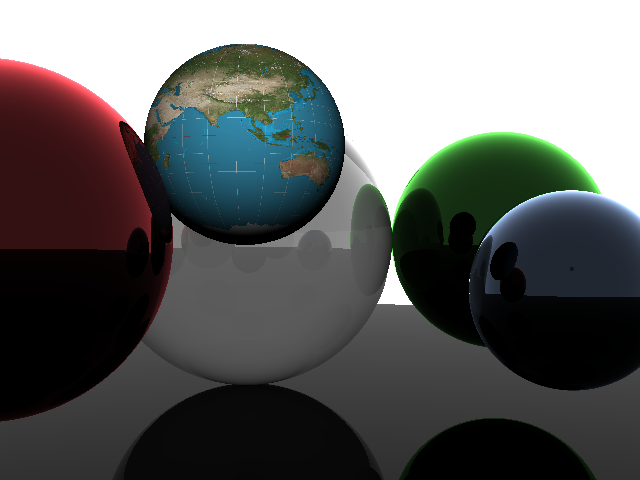
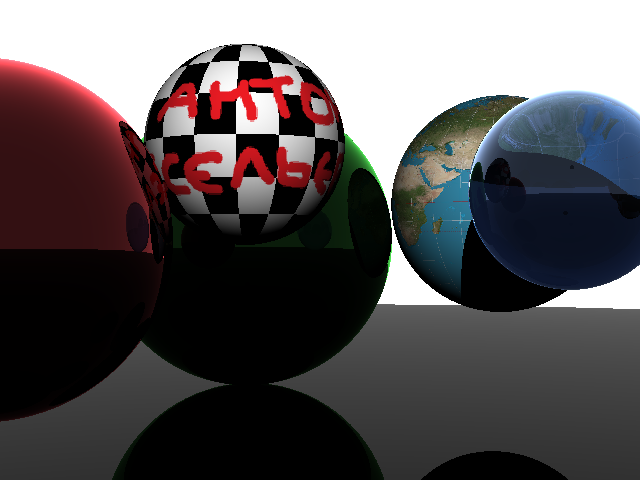
polishing

diff --git a/RayTracing/RayTracer.h b/RayTracing/RayTracer.h
@@ -28,11 +28,8 @@ class RayTracer {
 		Vec3f phit = ray.origin + ray.dir * tNear; // point of intersection
 		Vec3f nhit = phit - sphere->center; // normal at the intersection point 
 		nhit.normalize(); // normalize normal direction 
-						  // If the normal and the view direction are not opposite to each other
-						  // reverse the normal direction. That also means we are inside the sphere so set
-						  // the inside bool to true. Finally reverse the sign of IdotN which we want
-						  // positive.
-		float bias = 1e-4; // add some bias to the point from which we will be tracing 
+		// if the normal and the view direction are not opposite to each other, reverse the normal direction
+		float bias = 1e-4; // add some bias to the point from which we'll be tracing 
 		bool inside = false;
 		if (dot(ray.dir, nhit) > 0) {
 			nhit = -nhit;
@@ -43,16 +40,14 @@ class RayTracer {
 		if (sphere->texture) {
 			auto spherical = toSpherical(sphere->center, phit);
 			auto coor = sphere->texture->fromUV(toUV(spherical));
-			auto a = (*sphere->texture)[coor.second];
-			colorAtPoint = a[coor.first];
+			colorAtPoint = (*sphere->texture)[coor.second][coor.first];
 		}
 
 		if ((sphere->transparency > 0 || sphere->reflection > 0) && depth < MAX_RAY_DEPTH) {
 			float facingRatio = -dot(ray.dir, nhit);
-			// change the mix value to tweak the effect
-			float fresnelEffect = mix(pow(1 - facingRatio, 3), 1, 0.1);
-			// compute reflection direction (not need to normalize because all vectors
-			// are already normalized)
+			float fresnelEffect = mix(pow(1 - facingRatio, 3), 1, 0.1); // mix value may be changed
+			// compute reflection direction
+			// (not need to normalize because all vectors are already normalized) 
 			Vec3f reflDir = ray.dir - nhit * 2 * dot(ray.dir, nhit);
 			Vec3f reflection = trace({ phit + nhit * bias, reflDir.normalize() }, depth + 1);
 			Vec3f refraction = 0;
@@ -90,6 +85,7 @@ class RayTracer {
 			}
 		}
 
+		// finally, return the resulting pixel's color
 		return surfaceColor + sphere->emissionColor;
 	}
 
@@ -97,47 +93,7 @@ public:
 
 	RayTracer(const std::vector<Sphere>& spheres) : spheres(spheres) {}
 
-	/**
-		antialiasing: 0 - none, 1 - multisampling, >1 - supersampling
-	*/
-	void render(size_t width, size_t height, const std::string& filepath, size_t antialiasing) {
-		if (antialiasing > 1) {
-			width *= antialiasing;
-			height *= antialiasing;
-		} else if (antialiasing) {
-			++width;
-			++height;
-		}
-		VecOfVecs<Vec3f> image(height, std::vector<Vec3f>(width));
-		float invWidth = 1 / float(width),
-			invHeight = 1 / float(height);
-		float fov = 30,
-			aspectRatio = width / float(height);
-		float angle = tan(M_PI * 0.5 * fov / 180.);
-		// Trace rays
-		for (unsigned y = 0; y < height; ++y) {
-			for (unsigned x = 0; x < width; ++x) {
-				float xx = (2 * ((x + 0.5) * invWidth) - 1) * angle * aspectRatio;
-				float yy = (1 - 2 * ((y + 0.5) * invHeight)) * angle;
-				image[y][x] = trace({ Vec3f(0), Vec3f(xx, yy, -1).normalize() }, 0);
-			}
-		}
-		// Save result to a PPM image (keep these flags if you compile under Windows)
-		std::ofstream ofs(filepath, std::ios::out | std::ios::binary);
-		if (!ofs) {
-			std::cerr << "Bad stream" << std::endl;
-		}
-		if (antialiasing > 1) {
-			renderSupersampled(ofs, image, antialiasing);
-		} else if (antialiasing) {
-			renderMultisampled(ofs, image);
-		} else {
-			renderNormal(ofs, image);
-		}
-		ofs.close();
-	}
-
-	void renderPNG(size_t width, size_t height, const std::string& filepath) {
+	void render(size_t width, size_t height, const std::string& filepath) {
 		VecOfVecs<Vec3f> image(height, std::vector<Vec3f>(width));
 		float invWidth = 1 / float(width),
 			invHeight = 1 / float(height);

diff --git a/RayTracing/util.h b/RayTracing/util.h
@@ -38,79 +38,6 @@ std::pair<float, float> toUV(const std::pair<float, float>& spherical) {
 	return std::make_pair(1 - spherical.first * 0.5f * invPi, spherical.second * invPi);
 }
 
-std::pair<float, float> toCubicUV(const std::pair<float, float>& spherical) {
-	float invPi = 1.0f / M_PI;
-	float a = 1 - spherical.first * 0.5f * invPi, b = spherical.second * invPi;
-	float x, y;
-	if (a < 0.25f) {
-
-	} else if (a >= 0.75f) {
-
-	} else {
-		float temp = a * 4.0f;
-		x = (int)temp - temp;
-		y = b * 2.0f - 0.5f;
-	}
-	return std::make_pair(x, y);
-}
-
-void outputPixel(std::ofstream& ofs, const Vec3f& pixel) {
-	ofs << (unsigned char)std::min(255, int(pixel.x * 255)) <<
-		(unsigned char)std::min(255, int(pixel.y * 255)) <<
-		(unsigned char)std::min(255, int(pixel.z * 255));
-}
-
-void outputPixel(std::ofstream& ofs, const VecOfVecs<Vec3f>& image, size_t x, size_t y, size_t side) {
-	if (side == 0) {
-		return outputPixel(ofs, image[y][x]);
-	}
-	Vec3<unsigned> sum(0);
-	for (size_t i = y; i < y + side; ++i) {
-		for (size_t j = x; j < x + side; ++j) {
-			auto& el = image[i][j];
-			//std::cout << el.x << std::endl;
-			sum += {
-				(std::min(unsigned(255), unsigned(el.x * 255))),
-					(std::min(unsigned(255), unsigned(el.y * 255))),
-					(std::min(unsigned(255), unsigned(el.z * 255))),
-			};
-		}
-	}
-	sum /= (side * side);
-	Vec3<unsigned char> px = { (unsigned char)sum.x, (unsigned char)sum.y, (unsigned char)sum.z };
-	ofs << px.x << px.y << px.z;
-}
-
-void renderSupersampled(std::ofstream& ofs, const VecOfVecs<Vec3f>& image, size_t nSamples) {
-	size_t width = image.front().size(), height = image.size();
-	ofs << "P6\n" << width / nSamples << " " << height / nSamples << "\n255\n";
-	for (size_t y = 0; y < height; y += nSamples) {
-		for (size_t x = 0; x < width; x += nSamples) {
-			outputPixel(ofs, image, x, y, nSamples);
-		}
-	}
-}
-
-void renderMultisampled(std::ofstream& ofs, const VecOfVecs<Vec3f>& image) {
-	size_t width = image.front().size() - 1, height = image.size() - 1;
-	ofs << "P6\n" << width << " " << height << "\n255\n";
-	for (size_t y = 0; y < height; ++y) {
-		for (size_t x = 0; x < width; ++x) {
-			outputPixel(ofs, image, x, y, 2);
-		}
-	}
-}
-
-void renderNormal(std::ofstream& ofs, const VecOfVecs<Vec3f>& image) {
-	size_t width = image.front().size(), height = image.size();
-	ofs << "P6\n" << width << " " << height << "\n255\n";
-	for (auto& row : image) {
-		for (auto& pixel : row) {
-			outputPixel(ofs, pixel);
-		}
-	}
-}
-
 void toPNG(const std::string& fileName, const VecOfVecs<Vec3f>& image) {
 	size_t width = image.front().size(), height = image.size();
 	std::vector<unsigned char> imgVec;

diff --git a/RayTracing/main.cpp b/RayTracing/main.cpp
@@ -1,33 +1,25 @@
-#include "stdafx.h"
-
 #include <string>
 #include <vector> 
 #include <iostream>
 #include "Sphere.h"
 #include "RayTracer.h"
-#include "util.h"
 
 int main(int argc, char **argv) {
-	//srand48(13);
-	Texture earth("textures/mercator.png");
-	std::cout << earth.width() << " " << earth.height() << std::endl;
+	Texture chess("textures/chess-spoiled.png");
+	Texture earth("textures/earth.png");
 	std::vector<Sphere> spheres;
 	
 	// position, radius, surface color, reflectivity, transparency, emission color
 	spheres.push_back({ { 0.0f, -1004.0f, -20.0f }, 1000.0f, { 0.20f, 0.20f, 0.20f }, 1, 0.0f });
-	spheres.push_back({ { -2.0f, 0.0f, -25.0f }, 4.0f,{ 0.90f, 0.90f, 0.90f } , 1, 0.5f });
-	spheres.push_back({ { 5.0f, -1.0f, -18.0f }, 2.0f, { 0.65f, 0.77f, 0.97f }, 1, 0.0f });
-	spheres.push_back({ { 5.0f, 0.0f, -25.0f }, 3.0f, { 0.4f, 0.89f, 0.36f }, 1, 0.0f });
+	spheres.push_back({ { -2.0f, 0.0f, -25.0f }, 4.0f, { 0.2f, 0.55f, 0.21f }, 1, 0.0f });
+	spheres.push_back({ { 5.0f, 1.0f, -18.0f }, 2.0f, { 0.65f, 0.77f, 0.97f }, 1, 0.9f });
+	spheres.push_back({ { 5.0f, 1.0f, -25.0f }, 3.0f, earth, 0, 0.0f });
 	spheres.push_back({ { -5.5f, 0.0f, -15.0f }, 3.0f, { 1.00f, 0.32f, 0.36f }, 1, 0.0f });
-	spheres.push_back({ { -1.5f, 1.9f, -18.0f }, 2.0f, earth, 0, 0.0f });
+	spheres.push_back({ { -1.5f, 1.9f, -18.0f }, 2.0f, chess, 0, 0.0f });
 	// lights
 	spheres.push_back({ { 0.0, 10, 5 }, 1, { 0.00f, 0.00f, 0.00f }, 0, 0.0f, { 1, 1, 1 } });
 	spheres.push_back({ { 1.0, 5, -40 }, 1, { 0.00f, 0.00f, 0.00f }, 0, 0.0f, { 1, 1, 1 } });
-	RayTracer<5> rt(spheres);
-	size_t w = 640, h = 480;
-	rt.renderPNG(w, h, "./out/spheres.png");
-	//rt.render(w, h, "./rt-no.png", 0);
-	//rt.render(w, h, "./rt-ms.ppm", 1);
-	//rt.render(w, h, "./rt-ss.ppm", 2);
+	RayTracer<10> rt(spheres);
+	rt.render(640, 480, "./out/spheres.png");
 	return 0;
 }

diff --git a/RayTracing/png/png.cpp b/RayTracing/png/png.cpp
@@ -1,4 +1,4 @@
-#include "stdafx.h"
+
 /*
 LodePNG version 20160124
 
